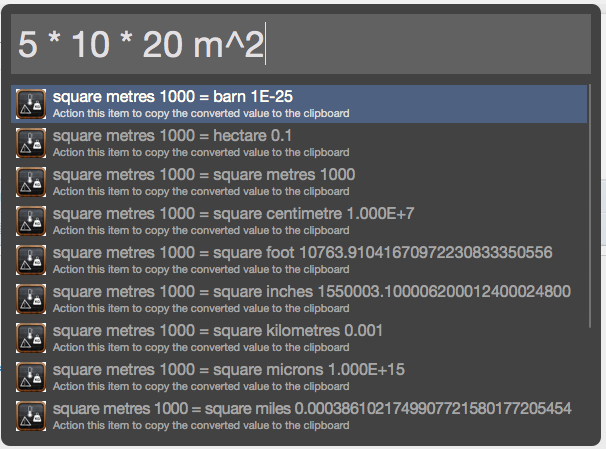
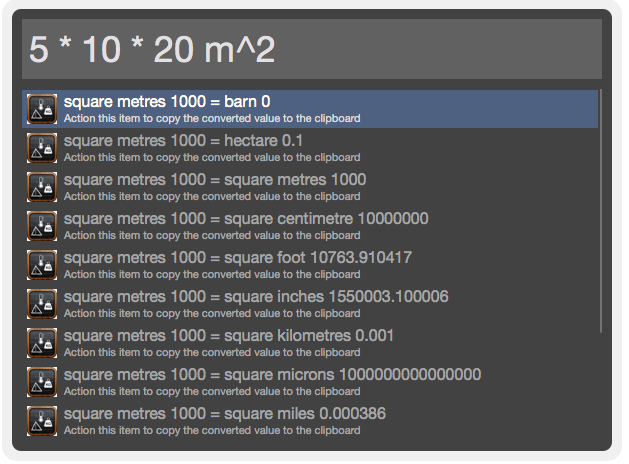
updated screenshots for new version

diff --git a/README.rst b/README.rst
@@ -25,8 +25,11 @@ Example queries
 
 .. image:: https://raw.githubusercontent.com/WoLpH/alfred-converter/master/examples/bytes.png
 
-.. image:: https://raw.githubusercontent.com/WoLpH/alfred-converter/master/examples/square_metres.png
+.. image:: https://raw.githubusercontent.com/WoLpH/alfred-converter/master/examples/exponent_rounding.png
 
+.. image:: https://raw.githubusercontent.com/WoLpH/alfred-converter/master/examples/mathematical_functions.png
+
+.. image:: https://raw.githubusercontent.com/WoLpH/alfred-converter/master/examples/square_metres.png
 
 The list of units and conversions was downloaded from:
 http://w3.energistics.org/uom/poscUnits22.xml
